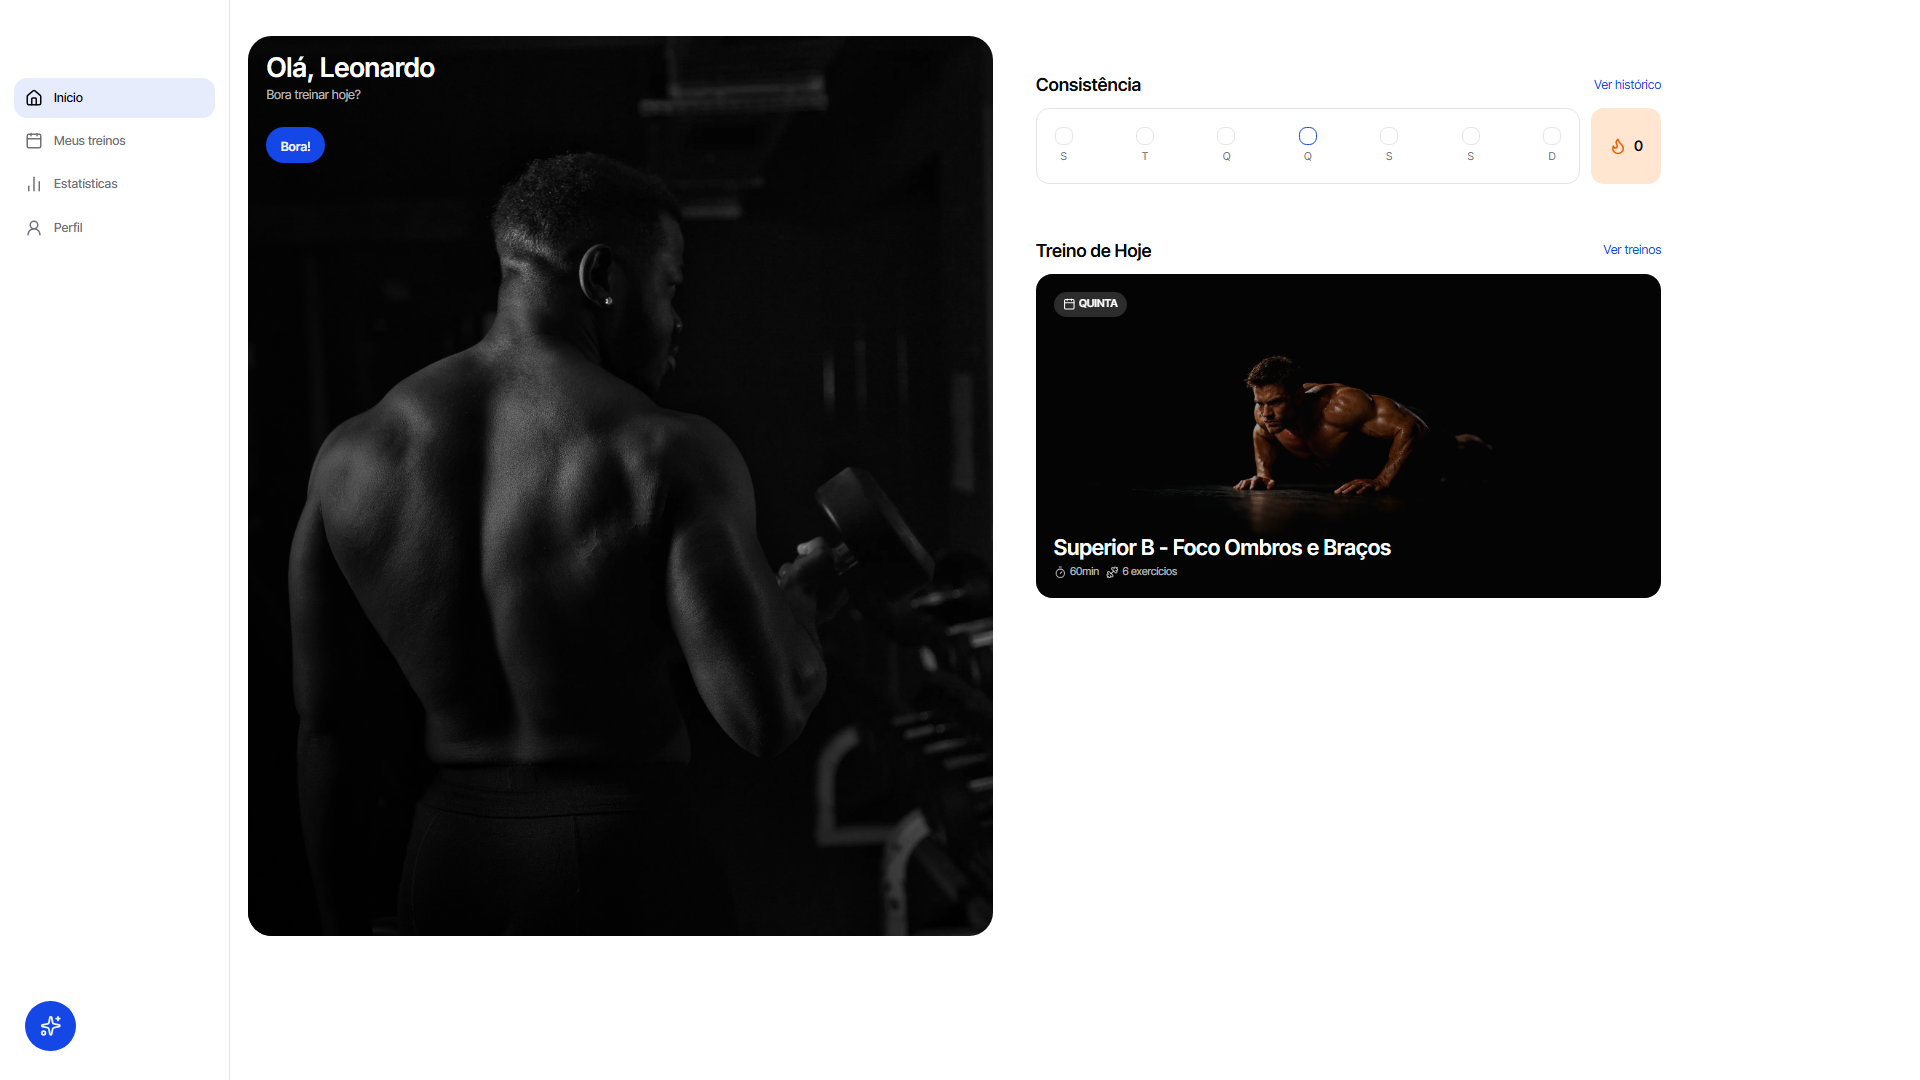
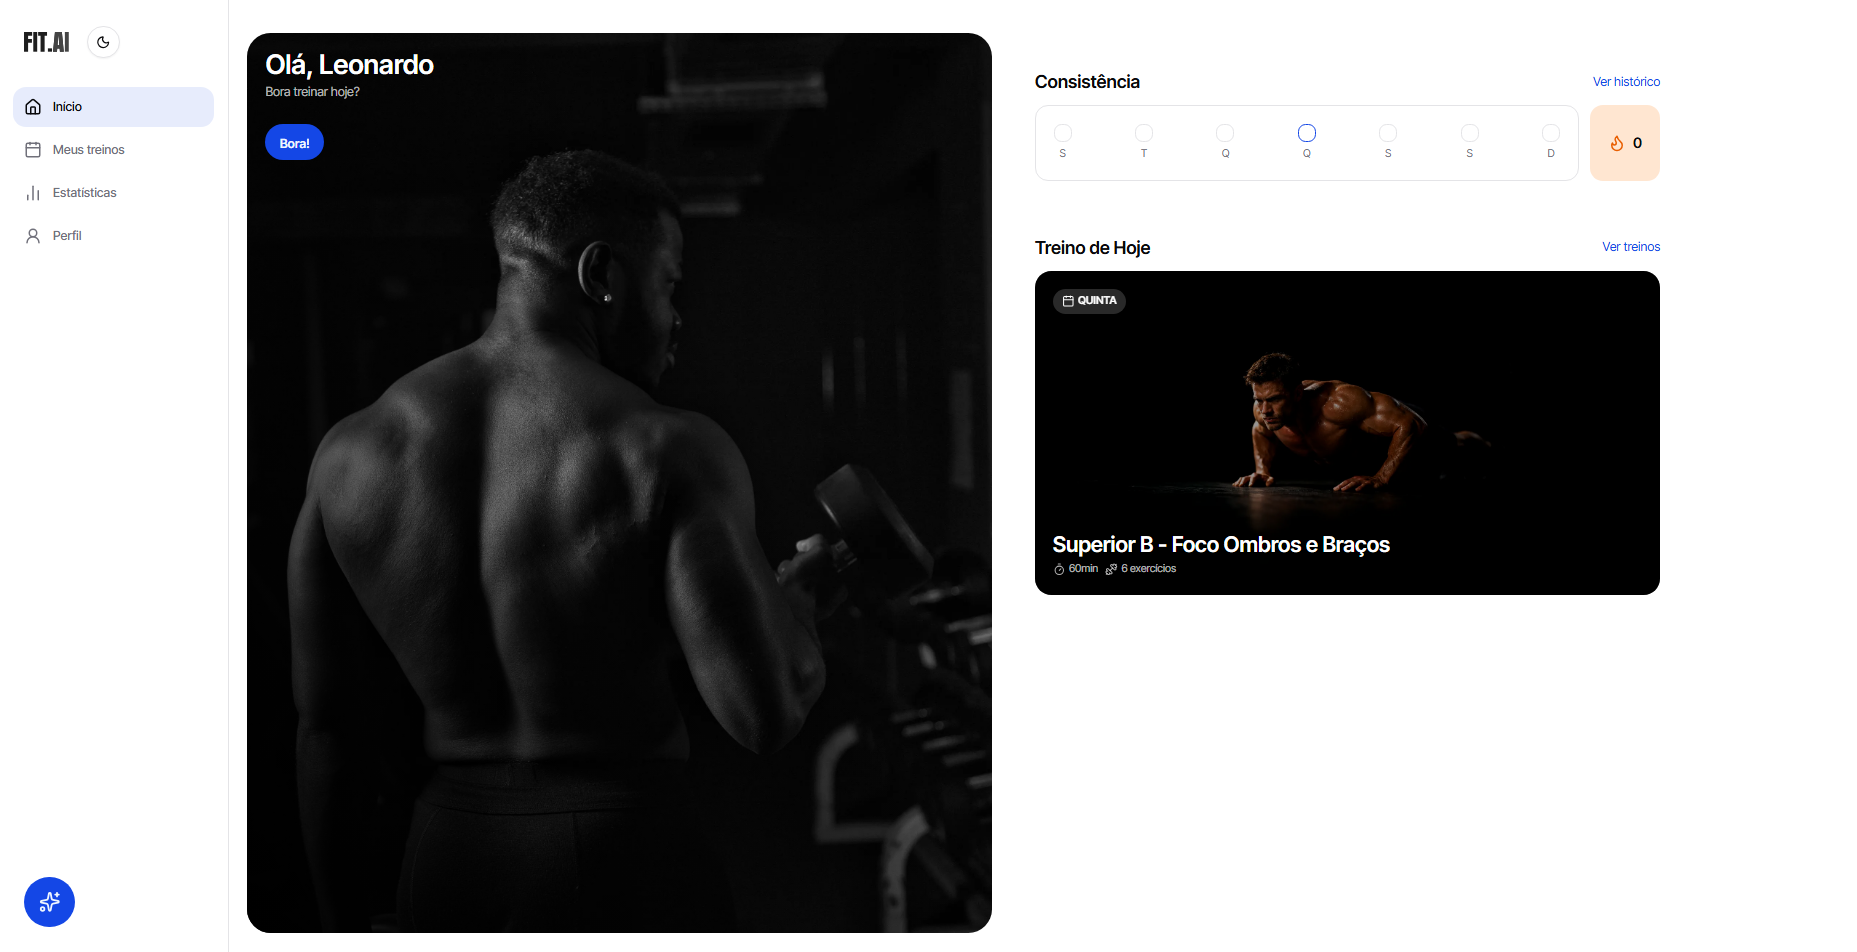
feat: implement dark mode

diff --git a/app/workout-plans/[id]/days/[dayId]/page.tsx b/app/workout-plans/[id]/days/[dayId]/page.tsx
@@ -105,12 +105,12 @@ export default async function WorkoutDayPage({
                 className="pointer-events-none object-cover"
               />
             )}
-            <div className="absolute inset-0 bg-foreground/40" />
+            <div className="absolute inset-0 bg-black/40" />
 
             <div className="relative">
               <div className="flex items-center gap-1 rounded-full bg-background/16 px-2.5 py-1.5 backdrop-blur-sm">
-                <Calendar className="size-3.5 text-background" />
-                <span className="font-heading text-xs font-semibold uppercase text-background">
+                <Calendar className="size-3.5 text-white" />
+                <span className="font-heading text-xs font-semibold uppercase text-white">
                   {WEEKDAY_LABELS[weekDay]}
                 </span>
               </div>
@@ -118,19 +118,19 @@ export default async function WorkoutDayPage({
 
             <div className="relative flex w-full items-end justify-between">
               <div className="flex flex-col gap-2">
-                <h2 className="font-heading text-2xl font-semibold leading-[1.05] text-background">
+                <h2 className="font-heading text-2xl font-semibold leading-[1.05] text-white">
                   {name}
                 </h2>
                 <div className="flex items-start gap-2">
                   <div className="flex items-center gap-1">
-                    <Timer className="size-3.5 text-background/70" />
-                    <span className="font-heading text-xs text-background/70">
+                    <Timer className="size-3.5 text-white/70" />
+                    <span className="font-heading text-xs text-white/70">
                       {durationInMinutes}min
                     </span>
                   </div>
                   <div className="flex items-center gap-1">
-                    <Dumbbell className="size-3.5 text-background/70" />
-                    <span className="font-heading text-xs text-background/70">
+                    <Dumbbell className="size-3.5 text-white/70" />
+                    <span className="font-heading text-xs text-white/70">
                       {exercises.length} exercícios
                     </span>
                   </div>

diff --git a/app/workout-plans/[id]/_components/workout-day-panel.tsx b/app/workout-plans/[id]/_components/workout-day-panel.tsx
@@ -75,12 +75,12 @@ export async function WorkoutDayPanel({
               className="pointer-events-none object-cover"
             />
           )}
-          <div className="absolute inset-0 bg-foreground/40" />
+          <div className="absolute inset-0 bg-black/40" />
 
           <div className="relative">
             <div className="flex items-center gap-1 rounded-full bg-background/16 px-2.5 py-1.5 backdrop-blur-sm">
-              <Calendar className="size-3.5 text-background" />
-              <span className="font-heading text-xs font-semibold uppercase text-background">
+              <Calendar className="size-3.5 text-white" />
+              <span className="font-heading text-xs font-semibold uppercase text-white">
                 {WEEKDAY_LABELS[weekDay]}
               </span>
             </div>
@@ -88,19 +88,19 @@ export async function WorkoutDayPanel({
 
           <div className="relative flex w-full items-end justify-between">
             <div className="flex flex-col gap-2">
-              <h3 className="font-heading text-2xl font-semibold leading-[1.05] text-background">
+              <h3 className="font-heading text-2xl font-semibold leading-[1.05] text-white">
                 {name}
               </h3>
               <div className="flex items-start gap-2">
                 <div className="flex items-center gap-1">
-                  <Timer className="size-3.5 text-background/70" />
-                  <span className="font-heading text-xs text-background/70">
+                  <Timer className="size-3.5 text-white/70" />
+                  <span className="font-heading text-xs text-white/70">
                     {durationInMinutes}min
                   </span>
                 </div>
                 <div className="flex items-center gap-1">
-                  <Dumbbell className="size-3.5 text-background/70" />
-                  <span className="font-heading text-xs text-background/70">
+                  <Dumbbell className="size-3.5 text-white/70" />
+                  <span className="font-heading text-xs text-white/70">
                     {exercises.length} exercícios
                   </span>
                 </div>

diff --git a/app/_components/workout-day-card.tsx b/app/_components/workout-day-card.tsx
@@ -39,29 +39,29 @@ export function WorkoutDayCard({
           className="pointer-events-none object-cover"
         />
       )}
-      <div className="absolute inset-0 bg-foreground/40" />
+      <div className="absolute inset-0 bg-black/40" />
       <div className="relative">
         <div className="flex items-center gap-1 rounded-full bg-background/16 px-2.5 py-1.5 backdrop-blur-sm">
-          <Calendar className="size-3.5 text-background" />
-          <span className="font-heading text-xs font-semibold uppercase text-background">
+          <Calendar className="size-3.5 text-white" />
+          <span className="font-heading text-xs font-semibold uppercase text-white">
             {WEEKDAY_LABELS[weekDay]}
           </span>
         </div>
       </div>
       <div className="relative flex flex-col gap-2">
-        <h3 className="font-heading text-xl lg:text-2xl font-semibold leading-[1.05] text-background">
+        <h3 className="font-heading text-xl lg:text-2xl font-semibold leading-[1.05] text-white">
           {name}
         </h3>
         <div className="flex items-start gap-2">
           <div className="flex items-center gap-1">
-            <Timer className="size-3.5 text-background/70" />
-            <span className="font-heading text-xs text-background/70">
+            <Timer className="size-3.5 text-white/70" />
+            <span className="font-heading text-xs text-white/70">
               {durationInMinutes}min
             </span>
           </div>
           <div className="flex items-center gap-1">
-            <Dumbbell className="size-3.5 text-background/70" />
-            <span className="font-heading text-xs text-background/70">
+            <Dumbbell className="size-3.5 text-white/70" />
+            <span className="font-heading text-xs text-white/70">
               {exercisesCount} exercícios
             </span>
           </div>

diff --git a/app/layout.tsx b/app/layout.tsx
@@ -4,6 +4,7 @@ import "./globals.css";
 import { NuqsAdapter } from "nuqs/adapters/next/app";
 import { Suspense } from "react";
 import { Chat } from "./_components/chat";
+import { ThemeProvider } from "next-themes";
 
 const geistSans = Geist({
   variable: "--font-geist-sans",
@@ -27,8 +28,11 @@ const interTight = Inter_Tight({
 });
 
 export const metadata: Metadata = {
-  title: "Create Next App",
-  description: "Generated by create next app",
+  title: "FIT.AI",
+  description: "Gerenciador de treinos",
+  icons: {
+    icon: "/public/favicon.svg",
+  },
 };
 
 export default function RootLayout({ children }: LayoutProps<"/">) {
@@ -38,12 +42,19 @@ export default function RootLayout({ children }: LayoutProps<"/">) {
         suppressHydrationWarning
         className={`${geistSans.variable} ${geistMono.variable} ${interTight.variable} ${anton.variable} h-full antialiased`}
       >
-        <NuqsAdapter>
-          {children}
-          <Suspense>
-            <Chat />
-          </Suspense>
-        </NuqsAdapter>
+        <ThemeProvider
+          attribute="class"
+          defaultTheme="system"
+          enableSystem
+          disableTransitionOnChange
+        >
+          <NuqsAdapter>
+            {children}
+            <Suspense>
+              <Chat />
+            </Suspense>
+          </NuqsAdapter>
+        </ThemeProvider>
       </body>
     </html>
   );

diff --git a/app/workout-plans/[id]/page.tsx b/app/workout-plans/[id]/page.tsx
@@ -103,7 +103,7 @@ export default async function WorkoutPlanPage({
               />
             </div>
             <p
-              className="relative text-[22px] uppercase leading-[1.15] text-background"
+              className="relative text-[22px] uppercase leading-[1.15] text-white"
               style={{ fontFamily: "var(--font-anton)" }}
             >
               Fit.ai
@@ -114,7 +114,7 @@ export default async function WorkoutPlanPage({
                   <Goal className="size-4" />
                   {name}
                 </Badge>
-                <h1 className="font-heading text-2xl font-semibold leading-[1.05] text-background">
+                <h1 className="font-heading text-2xl font-semibold leading-[1.05] text-white">
                   Plano de Treino
                 </h1>
               </div>
@@ -128,7 +128,7 @@ export default async function WorkoutPlanPage({
             />
           </Suspense>
         </div>
-        <div className="sticky top-0 self-start hidden lg:flex h-svh w-[48%] items-center justify-center bg-primary/8">
+        <div className="sticky top-0 self-start hidden lg:flex h-svh w-[48%] items-center justify-center bg-black/10">
           <span className="text-center text-xl text-muted-foreground">
             selecione um dia
           </span>

diff --git a/app/_components/theme-toggle.tsx b/app/_components/theme-toggle.tsx
@@ -1,0 +1,48 @@
+/* eslint-disable react-hooks/set-state-in-effect */
+"use client";
+
+import { Button } from "@/components/ui/button";
+import { MoonIcon, SunIcon } from "lucide-react";
+import { useTheme } from "next-themes";
+import { useEffect, useState, useCallback } from "react";
+
+export const ThemeToggle = () => {
+  const { theme, setTheme } = useTheme();
+  const [mounted, setMounted] = useState(false);
+
+  useEffect(() => {
+    setMounted(true);
+  }, []);
+
+  const toggleTheme = useCallback(() => {
+    setTheme(theme === "dark" ? "light" : "dark");
+  }, [theme, setTheme]);
+
+  if (!mounted) {
+    return (
+      <Button variant="outline" size="icon" disabled>
+        <SunIcon className="h-[1.2rem] w-[1.2rem]" />
+      </Button>
+    );
+  }
+
+  return (
+    <Button
+      variant="outline"
+      size="icon"
+      onClick={toggleTheme}
+      aria-label={
+        theme === "dark"
+          ? "Alternar para tema claro"
+          : "Alternar para tema escuro"
+      }
+      className="rounded-2xl "
+    >
+      {theme === "dark" ? (
+        <SunIcon className="h-[1.2rem] w-[1.2rem]" />
+      ) : (
+        <MoonIcon className="h-[1.2rem] w-[1.2rem]" />
+      )}
+    </Button>
+  );
+};

diff --git a/app/_components/sidebar-nav.tsx b/app/_components/sidebar-nav.tsx
@@ -5,6 +5,7 @@ import { cn } from "@/lib/utils";
 import { ChatOpenButton } from "./chat-open-button";
 import { getHomePageData } from "@/app/_lib/api/fetch-generated";
 import dayjs from "dayjs";
+import { ThemeToggle } from "./theme-toggle";
 
 interface SidebarNavProps {
   activePage?: "home" | "calendar" | "stats" | "profile";
@@ -20,8 +21,22 @@ export async function SidebarNav({ activePage = "home" }: SidebarNavProps) {
 
   return (
     <aside className="hidden lg:flex lg:fixed lg:inset-y-0 lg:left-0 lg:w-64 lg:flex-col lg:border-r lg:border-border lg:bg-background lg:px-4 lg:py-8 lg:z-40">
-      <div className="mb-8 flex items-center px-3">
-        <Image src="/fit-ai-logo.svg" alt="FIT.AI" width={50} height={38} />
+      <div className="mb-8 flex items-center px-3 gap-5">
+        <Image
+          src="/fit-ai-logo-dark.svg"
+          alt="FIT.AI"
+          width={50}
+          height={38}
+          className="dark:hidden"
+        />
+        <Image
+          src="/fit-ai-logo.svg"
+          alt="FIT.AI"
+          width={50}
+          height={38}
+          className="hidden dark:block"
+        />
+        <ThemeToggle />
       </div>
 
       <nav className="flex flex-1 flex-col gap-1">

diff --git a/app/page.tsx b/app/page.tsx
@@ -87,16 +87,16 @@ export default async function Home({
             />
           </div>
 
-          <div className="relative flex justify-center lg:hidden">
+          <div className="relative flex justify-between w-full  lg:hidden">
             <Image src="/fit-ai-logo.svg" alt="FIT.AI" width={50} height={38} />
           </div>
 
           <div className="relative flex w-full items-end justify-between lg:flex-col lg:items-start lg:gap-7">
             <div className="flex flex-col gap-1.5">
-              <h1 className="font-heading text-2xl font-semibold leading-[1.05] text-background lg:text-3xl">
+              <h1 className="font-heading text-2xl font-semibold leading-[1.05] text-white lg:text-3xl">
                 Olá, {userName}
               </h1>
-              <p className="font-heading text-sm leading-[1.15] text-background/70">
+              <p className="font-heading text-sm leading-[1.15] text-white/70">
                 Bora treinar hoje?
               </p>
             </div>

diff --git a/app/stats/_components/streak-banner.tsx b/app/stats/_components/streak-banner.tsx
@@ -21,13 +21,13 @@ export function StreakBanner({ workoutStreak }: StreakBannerProps) {
       </div>
       <div className="relative flex flex-col items-center gap-3">
         <div className="rounded-full border border-background/12 bg-background/12 p-3 backdrop-blur-xs">
-          <Flame className="size-8 text-background" />
+          <Flame className="size-8 text-white" />
         </div>
         <div className="flex flex-col items-center gap-1">
-          <p className="font-heading text-5xl font-semibold leading-[0.95] text-background">
+          <p className="font-heading text-5xl font-semibold leading-[0.95] text-white">
             {workoutStreak} dias
           </p>
-          <p className="font-heading text-base leading-[1.15] text-background/60">
+          <p className="font-heading text-base leading-[1.15] text-white/60">
             Sequência Atual
           </p>
         </div>

diff --git a/app/profile/page.tsx b/app/profile/page.tsx
@@ -11,6 +11,7 @@ import { SidebarNav } from "@/app/_components/sidebar-nav";
 import { Avatar, AvatarImage, AvatarFallback } from "@/components/ui/avatar";
 import { Weight, Ruler, BicepsFlexed, User } from "lucide-react";
 import { LogoutButton } from "./_components/logout-button";
+import { ThemeToggle } from "../_components/theme-toggle";
 
 export default async function ProfilePage() {
   const session = await authClient.getSession({
@@ -74,6 +75,7 @@ export default async function ProfilePage() {
                 </p>
               </div>
             </div>
+            <ThemeToggle />
           </div>
 
           <div className="grid w-full grid-cols-2 gap-3 lg:flex lg:justify-around">
